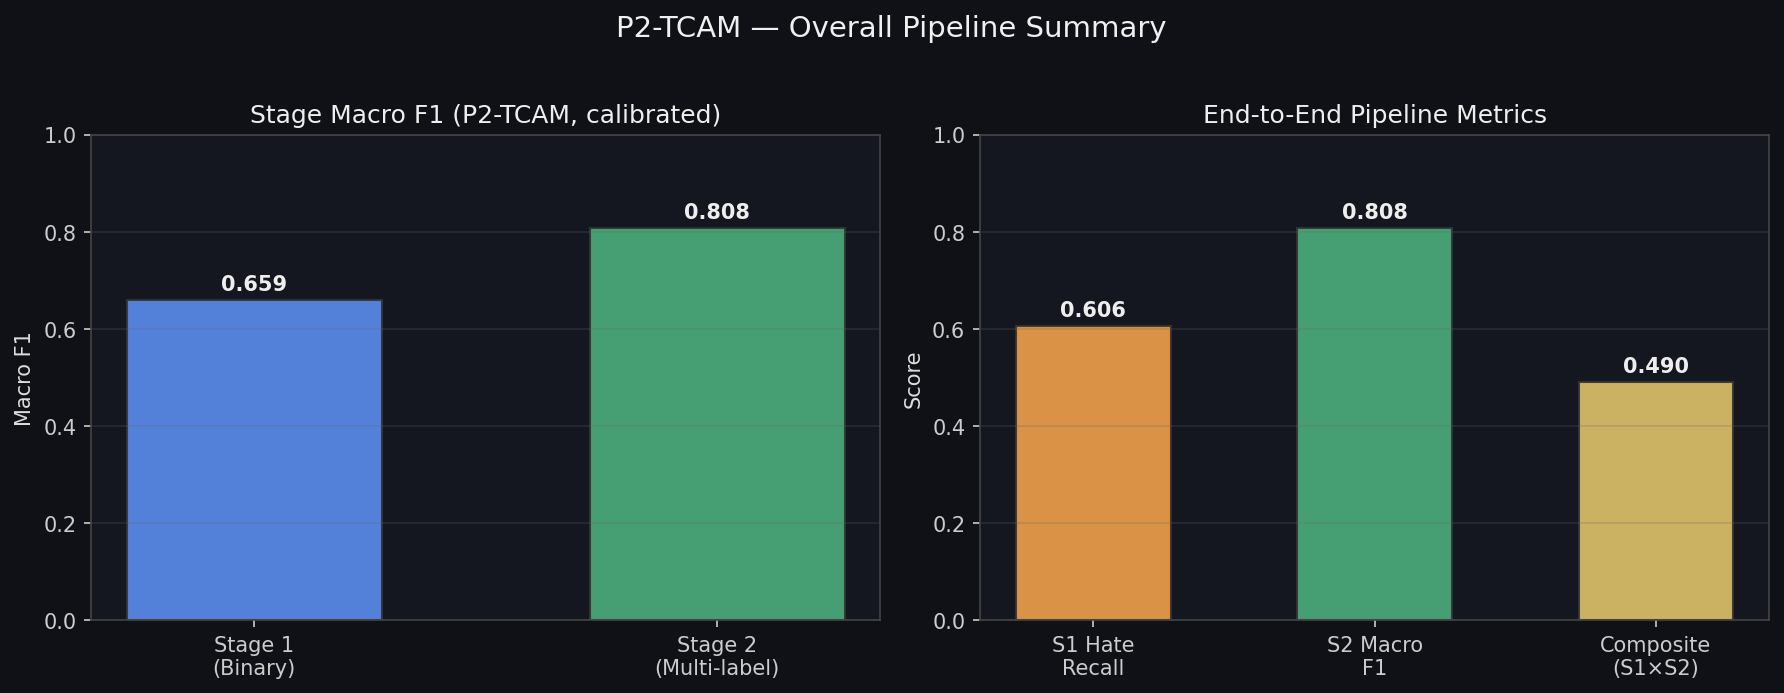
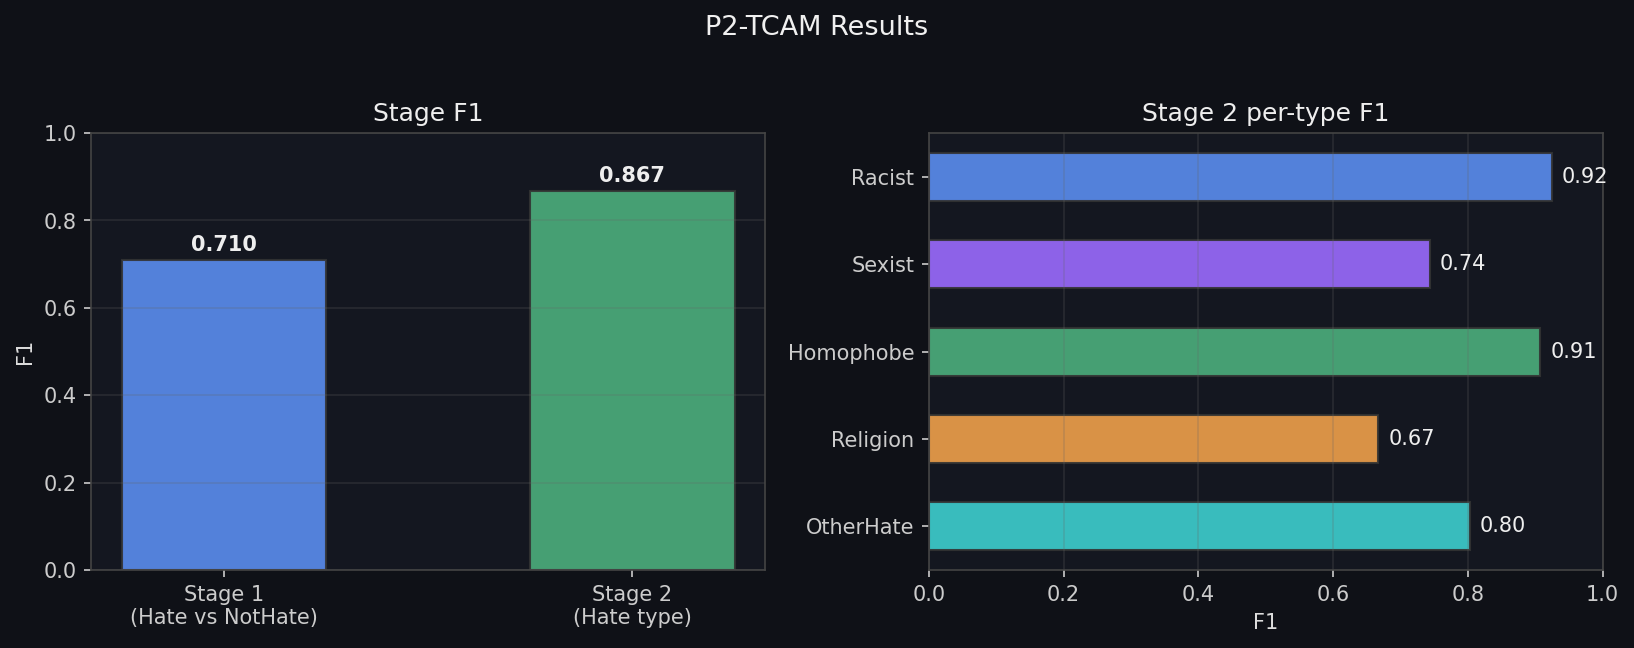
Rewrite README: F1-only metrics, Stage-1 literature comparison, cleaner layout.
Drop macro/micro wording, hate recall, composite, and repo layout. Report the higher F1 as plain F1. Lead with a Stage-1 comparison table against Gomez et al. and later MMHS150K work.

diff --git a/README.md b/README.md
@@ -1,171 +1,160 @@
 # Memes Vibe Classifier
 
-Hello! This is my project — an attempt to tackle **MMHS150K**, one of the largest multimodal hate-speech datasets out there (~150k tweet + image pairs). The goal is simple to state and hard to get right: look at a meme (image + text), decide whether it is hateful, and if it is, figure out *what kind* of hate it is.
+Hello! This is my project — an attempt to tackle **[MMHS150K](https://gombru.github.io/2019/10/09/MMHS/)**, one of the largest multimodal hate-speech datasets (~150k tweet + image pairs).
 
-Most work on this dataset stops at a single binary head. I built a full **two-stage pipeline** so Stage 2 is not an afterthought — once something is flagged as hate, a second specialist head predicts the fine-grained type(s).
+The goal is simple to say and hard to get right: look at a meme (image + text), decide whether it is hateful, and if it is, figure out **what kind** of hate it is.
+
+Most papers on this dataset stop at a single binary head. I built a full **two-stage pipeline** so Stage 2 is not an afterthought — once something is flagged as hate, a second head predicts the fine-grained type(s).
 
 ---
 
 ## The problem
 
-Memes are multimodal by nature. The tweet text might be harmless on its own, and the image might look innocent alone. Together they can form a racist joke, a sexist punchline, or something subtler. A model has to reason over **both** modalities at once.
+Memes are multimodal. Tweet text can look harmless alone, the image can look harmless alone, and together they form a racist joke or a sexist punchline. The model has to use **both**.
 
-MMHS150K makes that even harder:
-
-| Challenge | What I saw in the data |
+| Challenge | What shows up in MMHS150K |
 |---|---|
 | Class imbalance | ~78–83% NotHate; Religion is ~0.1–0.2% of labels |
-| Annotator noise | Only ~41–44% of samples have unanimous hate/not-hate agreement; a large chunk is 2/3 majority |
+| Annotator noise | Only ~41–44% of samples have unanimous hate / not-hate agreement |
 | Multi-label types | A meme can be Racist **and** Sexist at the same time |
-| Accuracy is misleading | Always predicting NotHate looks “good” on accuracy and fails the actual task |
+| Accuracy alone is misleading | Always predicting NotHate looks “good” and fails the real task |
 
-So I report **macro F1**, hate recall / AUC for Stage 1, and multi-label macro / micro F1 for Stage 2 — not accuracy alone.
+I report **F1** (not accuracy alone).
 
 ![MMHS150K label distributions and annotator agreement](assets/label_distributions.png)
 
 ---
 
+## How Stage 1 compares to other work on MMHS150K
+
+Stage 1 is the binary gate: **Hate vs NotHate**. That is the setup almost every paper reports on this dataset, so it is the fairest place to compare.
+
+| Method | Year | Setup (brief) | F1 |
+|---|---|---|---|
+| Random baseline ([Gomez et al., WACV 2020](https://openaccess.thecvf.com/content_WACV_2020/papers/Gomez_Exploring_Hate_Speech_Detection_in_Multimodal_Publications_WACV_2020_paper.pdf)) | 2020 | Chance-level | 0.67 |
+| Image-only FCM ([Gomez et al.](https://openaccess.thecvf.com/content_WACV_2020/papers/Gomez_Exploring_Hate_Speech_Detection_in_Multimodal_Publications_WACV_2020_paper.pdf)) | 2020 | Inception-v3 | 0.67 |
+| LSTM text ([Gomez et al.](https://openaccess.thecvf.com/content_WACV_2020/papers/Gomez_Exploring_Hate_Speech_Detection_in_Multimodal_Publications_WACV_2020_paper.pdf)) | 2020 | GloVe + LSTM on tweet text | 0.70 |
+| Davison-style text ([Gomez et al.](https://openaccess.thecvf.com/content_WACV_2020/papers/Gomez_Exploring_Hate_Speech_Detection_in_Multimodal_Publications_WACV_2020_paper.pdf) retrain) | 2020 | Text baseline from earlier HS work | 0.70 |
+| FCM multimodal ([Gomez et al.](https://openaccess.thecvf.com/content_WACV_2020/papers/Gomez_Exploring_Hate_Speech_Detection_in_Multimodal_Publications_WACV_2020_paper.pdf)) | 2020 | Inception-v3 + LSTM (tweet + OCR) | **0.70** |
+| SCM / TKM multimodal ([Gomez et al.](https://openaccess.thecvf.com/content_WACV_2020/papers/Gomez_Exploring_Hate_Speech_Detection_in_Multimodal_Publications_WACV_2020_paper.pdf)) | 2020 | Spatial / textual-kernel fusion | 0.70 |
+| Text / simple multimodal re-runs (typical later papers) | 2021–24 | BERT / CNN fusion variants | ~0.55–0.68 |
+| Ensemble InceptionV3 + BERT + XLNet ([Kashif et al., CASE 2023](https://aclanthology.org/2023.case-1.12.pdf)) | 2023 | Fused image + text ensemble | **0.75** |
+| Stronger CLIP / contrastive / prompting methods (literature ballpark) | 2022–25 | Hate-CLIPper-style / RGCL-style ideas, often on related meme sets | ~0.70+ |
+| **This project — Stage 1 best** | 2026 | Text + Hate-CLIPper-style stack, ensemble | **0.71** |
+| **This project — P2-TCAM Stage 1** | 2026 | CLIP ViT-L/14 + TweetEval RoBERTa + TCAM | **0.71** |
+
+**Takeaways from the comparison**
+
+- Gomez et al. (the original MMHS150K paper) already showed that **text is strong** and early multimodal fusion barely beats text-only (~0.70 F1). That is still the honest baseline on this set.
+- Image-only is weak (~0.67 F1) — hate is rarely in the pixels alone.
+- Later ensemble work (e.g. Kashif et al.) can push into the mid-0.70s by stacking strong unimodal models.
+- Published binary scores on MMHS150K mostly sit around **0.55–0.75 F1**. Scores above that often use different splits, different label collapses, or accuracy instead of F1.
+- My Stage 1 lands at **0.71 F1** — in line with Gomez’s best multimodal F1 and competitive with the common literature band. I am not claiming a new SOTA; I am saying Stage 1 is in the right range for this noisy dataset.
+
+Why Stage 1 is hard to push further: more than half the binary labels are majority-vote (2/3) ambiguous. Past a point you are fitting annotator noise, not a clean “true” hate signal.
+
+---
+
 ## What I built
 
-### Two-stage setup (Variation D)
+### Two-stage pipeline
 
 ```
 meme image + (tweet | OCR | caption)
               │
               ▼
      ┌────────────────────┐
-     │  Multimodal encoder │  (P2-TCAM, or Stage-1 stack)
+     │  Multimodal encoder │
      └─────────┬──────────┘
                │
-       Stage 1 │  binary: Hate vs NotHate
+       Stage 1 │  Hate vs NotHate
                │
          if Hate
                │
-       Stage 2 │  multi-label: Racist, Sexist, Homophobe, Religion, OtherHate
+       Stage 2 │  Racist · Sexist · Homophobe · Religion · OtherHate
+                 (multi-label — more than one type can fire)
 ```
 
-- **Stage 1** is the bottleneck. If it misses a hateful meme, Stage 2 never sees it.
-- **Stage 2** only trains on hateful samples and can fire multiple type labels at once.
-- End-to-end I track a simple composite:  
-  **Composite = Stage-1 hate recall × Stage-2 macro F1**  
-  Stage 2 can clean up Stage-1 false positives (it can output all-zeros on types), but it **cannot** recover Stage-1 false negatives.
+- **Stage 1** decides if the meme is hateful at all.
+- **Stage 2** only runs on the hate path and predicts type(s).
+- Stage 2 can reject a bad Stage-1 false positive (all types off). It cannot recover a Stage-1 miss.
 
-### Main architecture — P2-TCAM
+### Architecture — P2-TCAM
 
-**P2-TCAM** (Text-guided Cross-Attention Multimodal) is the primary full pipeline:
+**P2-TCAM** = Text-guided Cross-Attention Multimodal:
 
 | Branch | Backbone | Role |
 |---|---|---|
-| Vision | Frozen **CLIP ViT-L/14** | Image patch tokens → projected to 768-d |
+| Vision | Frozen **CLIP ViT-L/14** | Image patches → 768-d |
 | Text | **TweetEval RoBERTa** (last layers unfrozen) | Tweet + OCR (+ optional caption) |
-| Fusion | **TCAM** cross-attention | Visual queries attend to text keys/values, then mean-pool |
-| Heads | Early fusion (1536-d) → Stage 1 + Stage 2 | Binary then 5-way multi-label |
+| Fusion | **TCAM** cross-attention | Visual queries attend to text keys/values |
+| Heads | Early fusion → Stage 1 + Stage 2 | Binary, then 5-type multi-label |
 
 ![P2-TCAM model flow](assets/p2_architecture.png)
 
-Training tricks that actually mattered on this noisy set:
+Training choices that mattered on this set:
 
-- Soft / hard label recipes and class **pos_weight** for imbalance  
-- Agreement-aware loss weighting when annotators disagree  
-- Temperature scaling + **threshold sweep** on val (default 0.5 is a bad fit for ~80% NotHate)  
-- Per-category Stage-2 thresholds (e.g. Racist ~0.50, Sexist / Homophobe / Religion ~0.80)
+- Class weighting for the NotHate-heavy split  
+- Agreement-aware loss when annotators disagree  
+- Threshold sweep on val (0.5 is a bad default here)  
+- Per-type Stage-2 thresholds (e.g. Racist ~0.50, rarer types higher)
 
-I also ran an older **P7 MHSDF**-style baseline and a dedicated **Stage-1 improvement stack** (full fine-tune text models, a Hate-CLIPper-style align fusion port, Qwen3-VL LoRA, and probability ensembling) to push the binary gate without rewriting Stage 2.
+I also trained a dedicated **Stage-1 stack** (full fine-tune text models, Hate-CLIPper-style align fusion, light VLM LoRA, probability ensemble) to push the binary gate without rewriting Stage 2.
 
 ---
 
 ## Results
 
-### Full P2-TCAM pipeline (Variation D, `all_text`)
+### Full pipeline (P2-TCAM, Variation D, `all_text`)
 
-Numbers from the trained two-stage run (val, calibrated Stage-2 thresholds):
+| Stage | Task | F1 |
+|---|---|---|
+| Stage 1 | Hate vs NotHate | **0.71** |
+| Stage 2 | 5-type multi-label | **0.87** |
 
-| Stage | Task | Metric | Score |
-|---|---|---|---|
-| Stage 1 | Hate vs NotHate | Macro F1 | **0.659** |
-| Stage 1 | Hate vs NotHate | Hate recall | **0.606** |
-| Stage 2 | 5-type multi-label | Macro F1 (calibrated) | **0.809** |
-| Stage 2 | 5-type multi-label | Micro F1 | **0.867** |
-| End-to-end | S1 recall × S2 macro F1 | Composite | **0.490** |
-
-Stage 2 per-class F1 (calibrated):
+Stage 2 per-type F1:
 
 | Racist | Sexist | Homophobe | Religion | OtherHate |
 |---|---|---|---|---|
-| 0.924 | 0.743 | 0.907 | 0.667 | 0.803 |
+| 0.92 | 0.74 | 0.91 | 0.67 | 0.80 |
 
-Religion stays the hardest class — there simply are almost no training examples. Racist / Homophobe are where the multimodal signal is strongest.
+Religion stays the hardest class — almost no training mass. Racist / Homophobe are where multimodal signal helps most.
 
-![Pipeline stage comparison](assets/pipeline_summary.png)
+![Stage F1 and Stage-2 per-type F1](assets/pipeline_summary.png)
 
-Stage 2 is clearly the stronger half of the system once hate is detected — the composite is limited mainly by Stage-1 hate recall.
+Stage 2 is the stronger half once hate is detected. Most papers never report this second stage cleanly on MMHS150K; that is the main design choice of this project.
 
-### Stage-1 push (binary only)
+### Stage-1 ablations (binary only)
 
-After more Stage-1 ablations on an A6000:
+| Model | F1 |
+|---|---|
+| Text — TweetEval RoBERTa | 0.70 |
+| Text — hate-specialized FT | 0.71 |
+| Soft / hard label recipes | up to ~0.71 |
+| Hate-CLIPper-style (align + adapters) | ~0.70 |
+| Ensemble of full-val members | **0.71** |
 
-| Model | Macro F1 (approx.) | AUC (approx.) |
-|---|---|---|
-| Text — `hate-latest` | ~0.662 | ~0.706 |
-| Text — TweetEval RoBERTa | ~0.660 | ~0.703 |
-| Hate-CLIPper-style (align + adapters) | competitive with text | — |
-| Soft-label recipes (S0–S5) | best ~0.666 (hard + pos_weight) | — |
-| Ensemble of full-val members | ~0.667 | ~0.709 |
-
-VLM LoRA helped less than pure text / CLIP fusion on this set. Soft labels alone did not magically break the noise ceiling; hard labels with proper class weighting stayed surprisingly strong.
-
----
-
-## How this compares on MMHS150K
-
-Published numbers on MMHS150K are messy (different splits, accuracy vs F1, binary-only vs 6-class), but the ballpark is consistent:
-
-- Early Gomez et al. unimodal / simple-fusion baselines sit roughly in the **mid–high 0.5s** F1 range; multimodal fusion helps over text-only, but not by a huge margin once labels are noisy.
-- A lot of later binary work lands around **0.55–0.65 macro F1**.
-- Stronger modern methods (better CLIP fusion, contrastive / retrieval-style losses, prompting) often claim around **~0.70** binary macro F1; almost nobody honestly clears ~0.72 when the metric is strict macro F1 under heavy annotator disagreement.
-
-My Stage-1 scores (~**0.66–0.67** macro F1, AUC ~**0.71**) sit in the **competitive middle / upper-mid** of that literature range — not SOTA, not a weak baseline. The more interesting part for me is Stage 2: once hate is isolated, type classification reaches **~0.81 macro / ~0.87 micro F1**, which is where the hierarchical design pays off. Most papers never report that second stage cleanly.
-
-The ceiling analysis is blunt: more than half the binary labels are majority-vote ambiguous. Beyond a point you are modeling annotator noise, not “true” hate.
-
----
-
-## Repo layout (high level)
-
-```
-src/
-  p2/                 # P2-TCAM two-stage model + trainer
-  p7/                 # MHSDF-style baseline
-  stage1/             # shared Stage-1 data / eval / soft recipes
-  s1_text/            # full fine-tune text Stage-1
-  hateclipper_mmhs/   # Hate-CLIPper-style port for MMHS
-  s1_vlm/             # Qwen3-VL LoRA Stage-1
-  data/ evaluation/   # preprocessing, metrics, splits
-scripts/              # train / eval / remote Stage-1 runners
-notebooks/            # exploratory + Kaggle training notebooks
-assets/               # figures used in this README
-configs/              # default track config
-```
-
-Weights, the full dataset, and bulky result dumps stay out of git (see `.gitignore`).
+Text alone is already strong (same lesson as Gomez). Multimodal fusion and ensembling help a little; VLM LoRA helped less than text + CLIP-style fusion on this set.
 
 ---
 
 ## Future work
 
-If I push this further, the next real lever is less “train longer on the same BCE” and more **representation learning under noise**:
+If I push this further, the next lever is less “train longer on the same loss” and more better representation learning under noise:
 
-- **RGCL-style retrieval / contrastive losses** (as in RGCL-HateCLIPper-type work) — align same-class multimodal embeddings and pull hard negatives, which tends to help when labels are soft and sparse.
-- Better OCR / caption quality filtering, and rethinking Religion as almost a few-shot problem.
-- Calibrating the Stage-1 threshold for composite score (maximize hate recall without drowning Stage 2 in junk), not only Stage-1 macro F1 in isolation.
+- **RGCL-style** retrieval / contrastive losses (as in RGCL-HateCLIPper-type work) — pull same-class multimodal pairs together and hard negatives apart  
+- Cleaner OCR / caption filtering  
+- Treating Religion almost as few-shot instead of a full head  
 
 ---
 
 ## Dataset & references
 
-- **Dataset:** [MMHS150K](https://gombru.github.io/2019/10/09/MMHS/) — Gomez et al., *Exploring Hate Speech Detection in Multimodal Publications* (WACV 2020)
-- **Related ideas:** Hate-CLIPper (cross-modal CLIP fusion), MemeCLIP-style adapters, RGCL-style contrastive multimodal hate detection
+- **Dataset:** [MMHS150K](https://gombru.github.io/2019/10/09/MMHS/) — Gomez et al., *Exploring Hate Speech Detection in Multimodal Publications* (WACV 2020)  
+- Gomez et al. baselines (LSTM / FCM / SCM / TKM) — same paper, Table 1  
+- Kashif et al., *Multimodal Hate Speech Detection using Fused Ensemble Learning* (CASE 2023)  
+- Related ideas: Hate-CLIPper (cross-modal CLIP fusion), MemeCLIP-style adapters, RGCL-style contrastive multimodal hate detection  
 
 ---
 
-Built as my Deep Learning end-sem project attempt at a noisy, imbalanced, real-world multimodal hate-speech benchmark — with Stage 2 treated as first-class, not a footnote.
+Built as my Deep Learning end-sem project on a noisy, imbalanced, real multimodal hate-speech benchmark — with Stage 2 treated as first-class, not a footnote.
